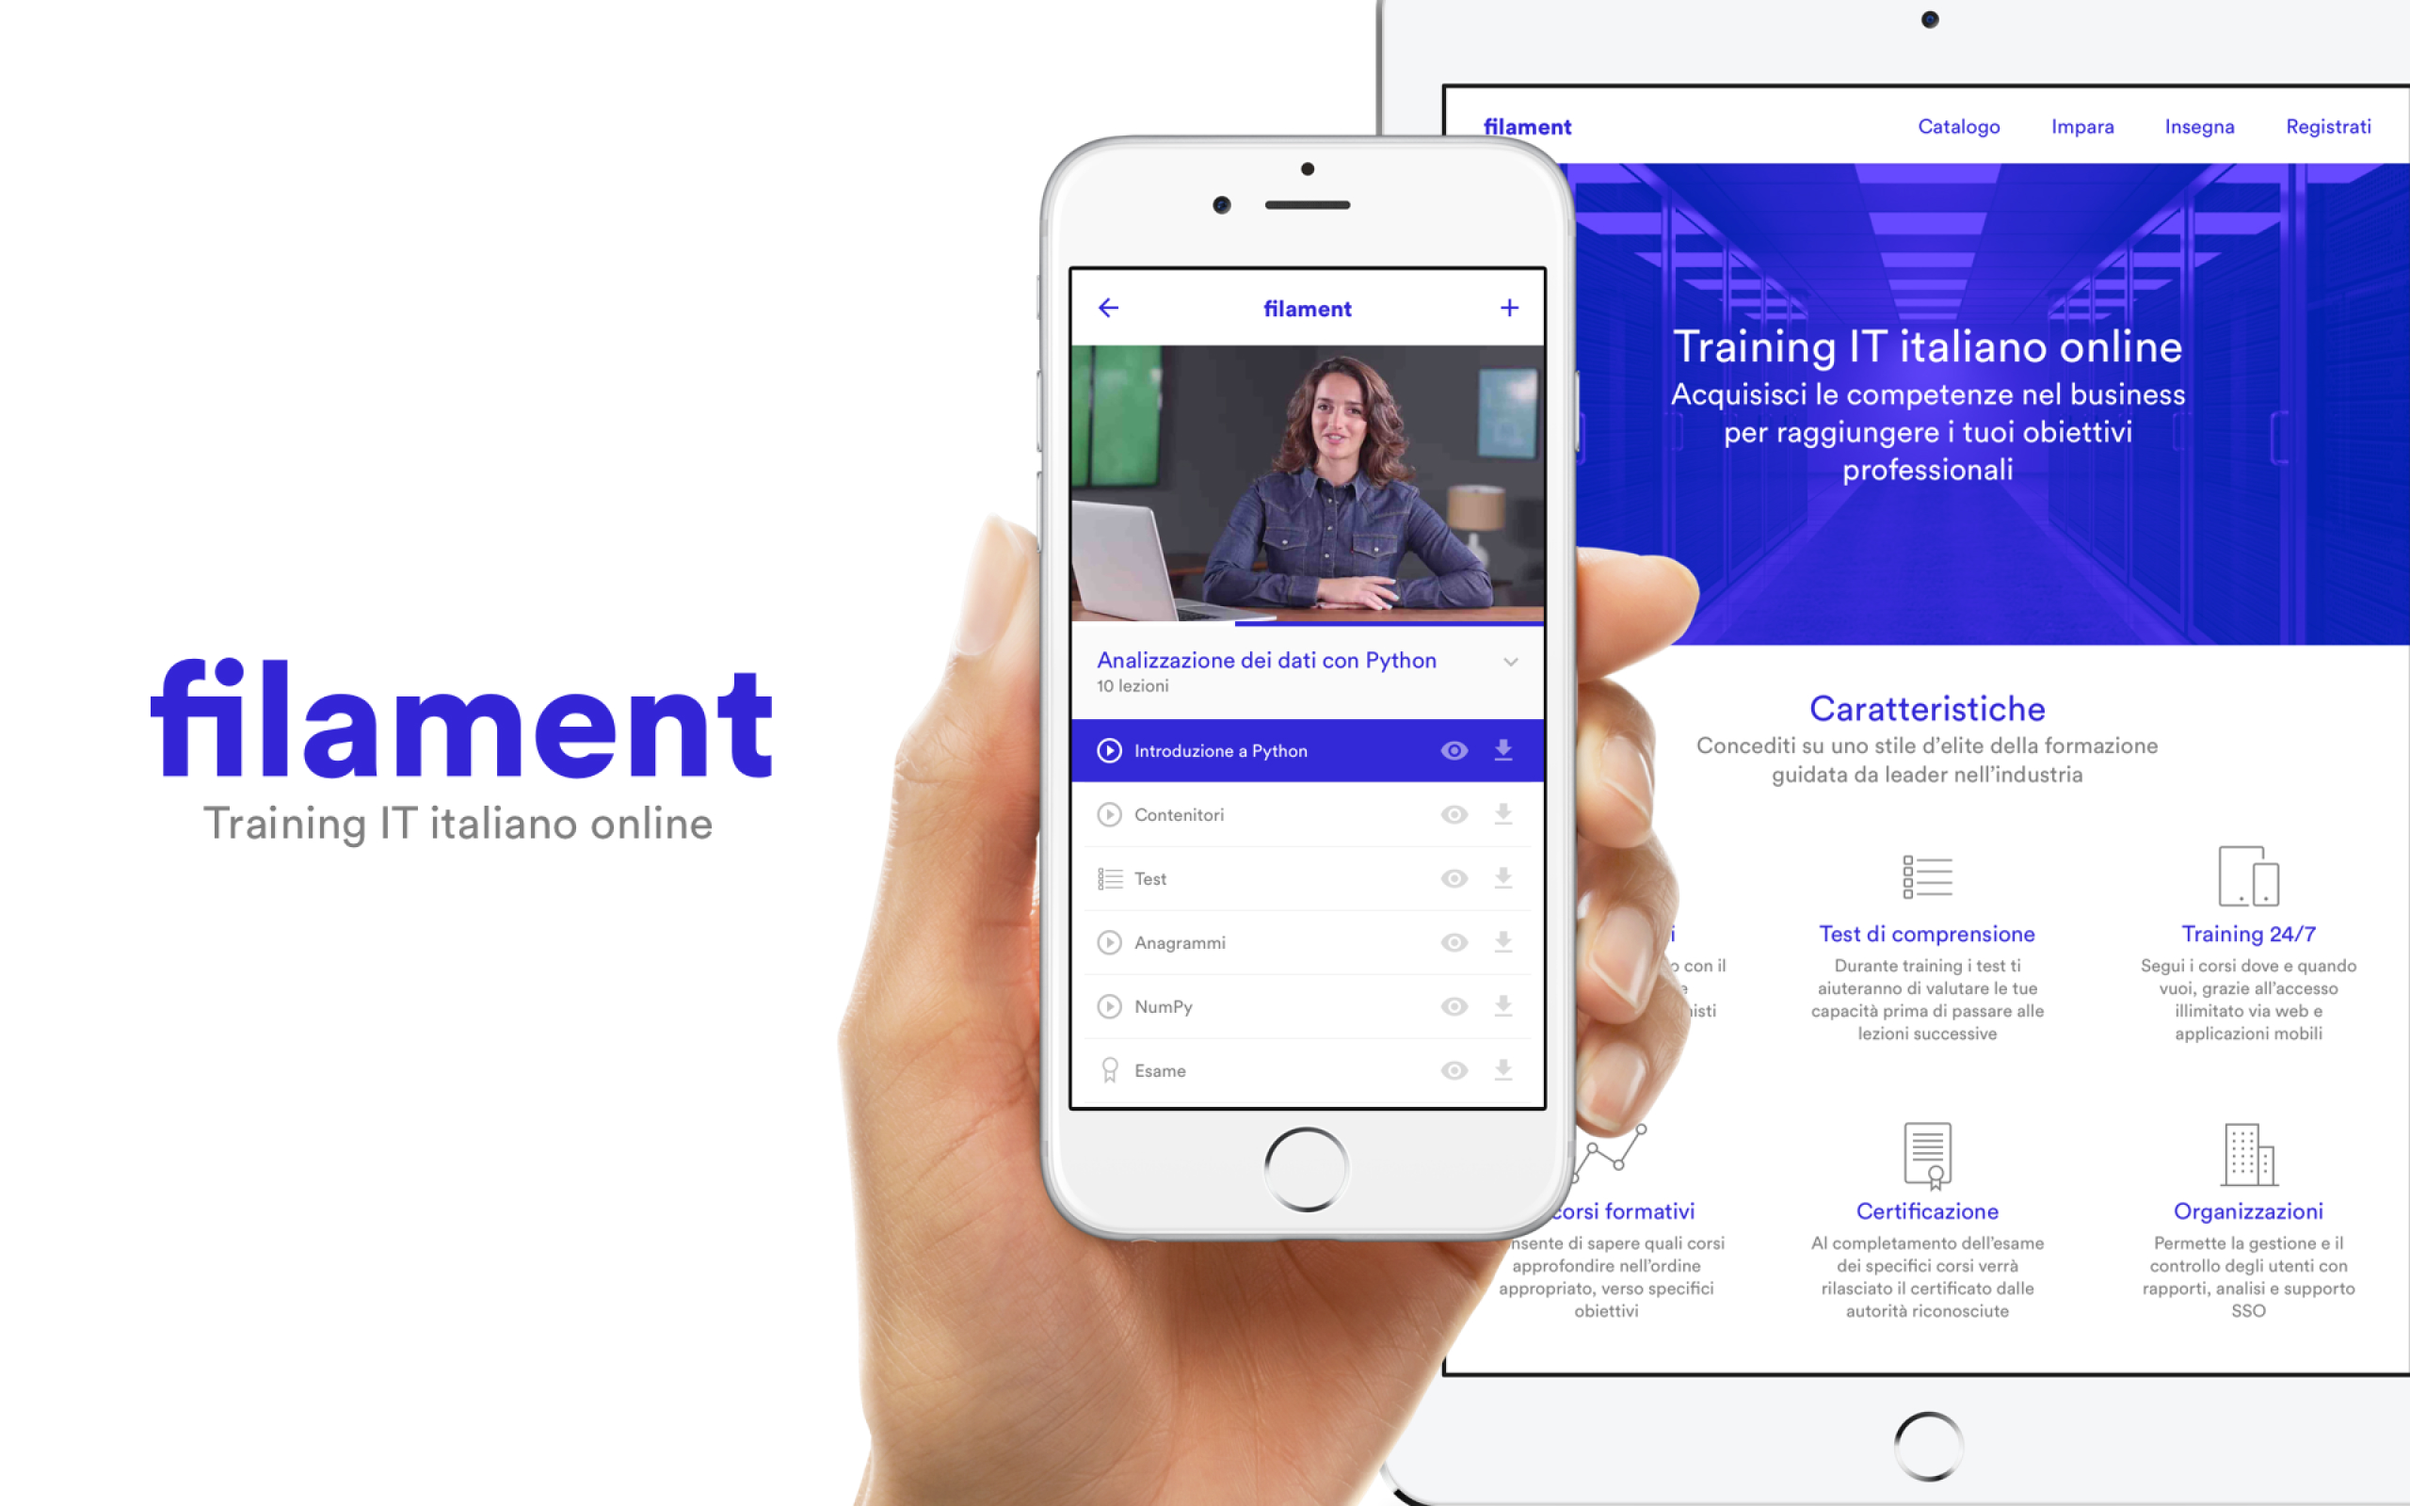
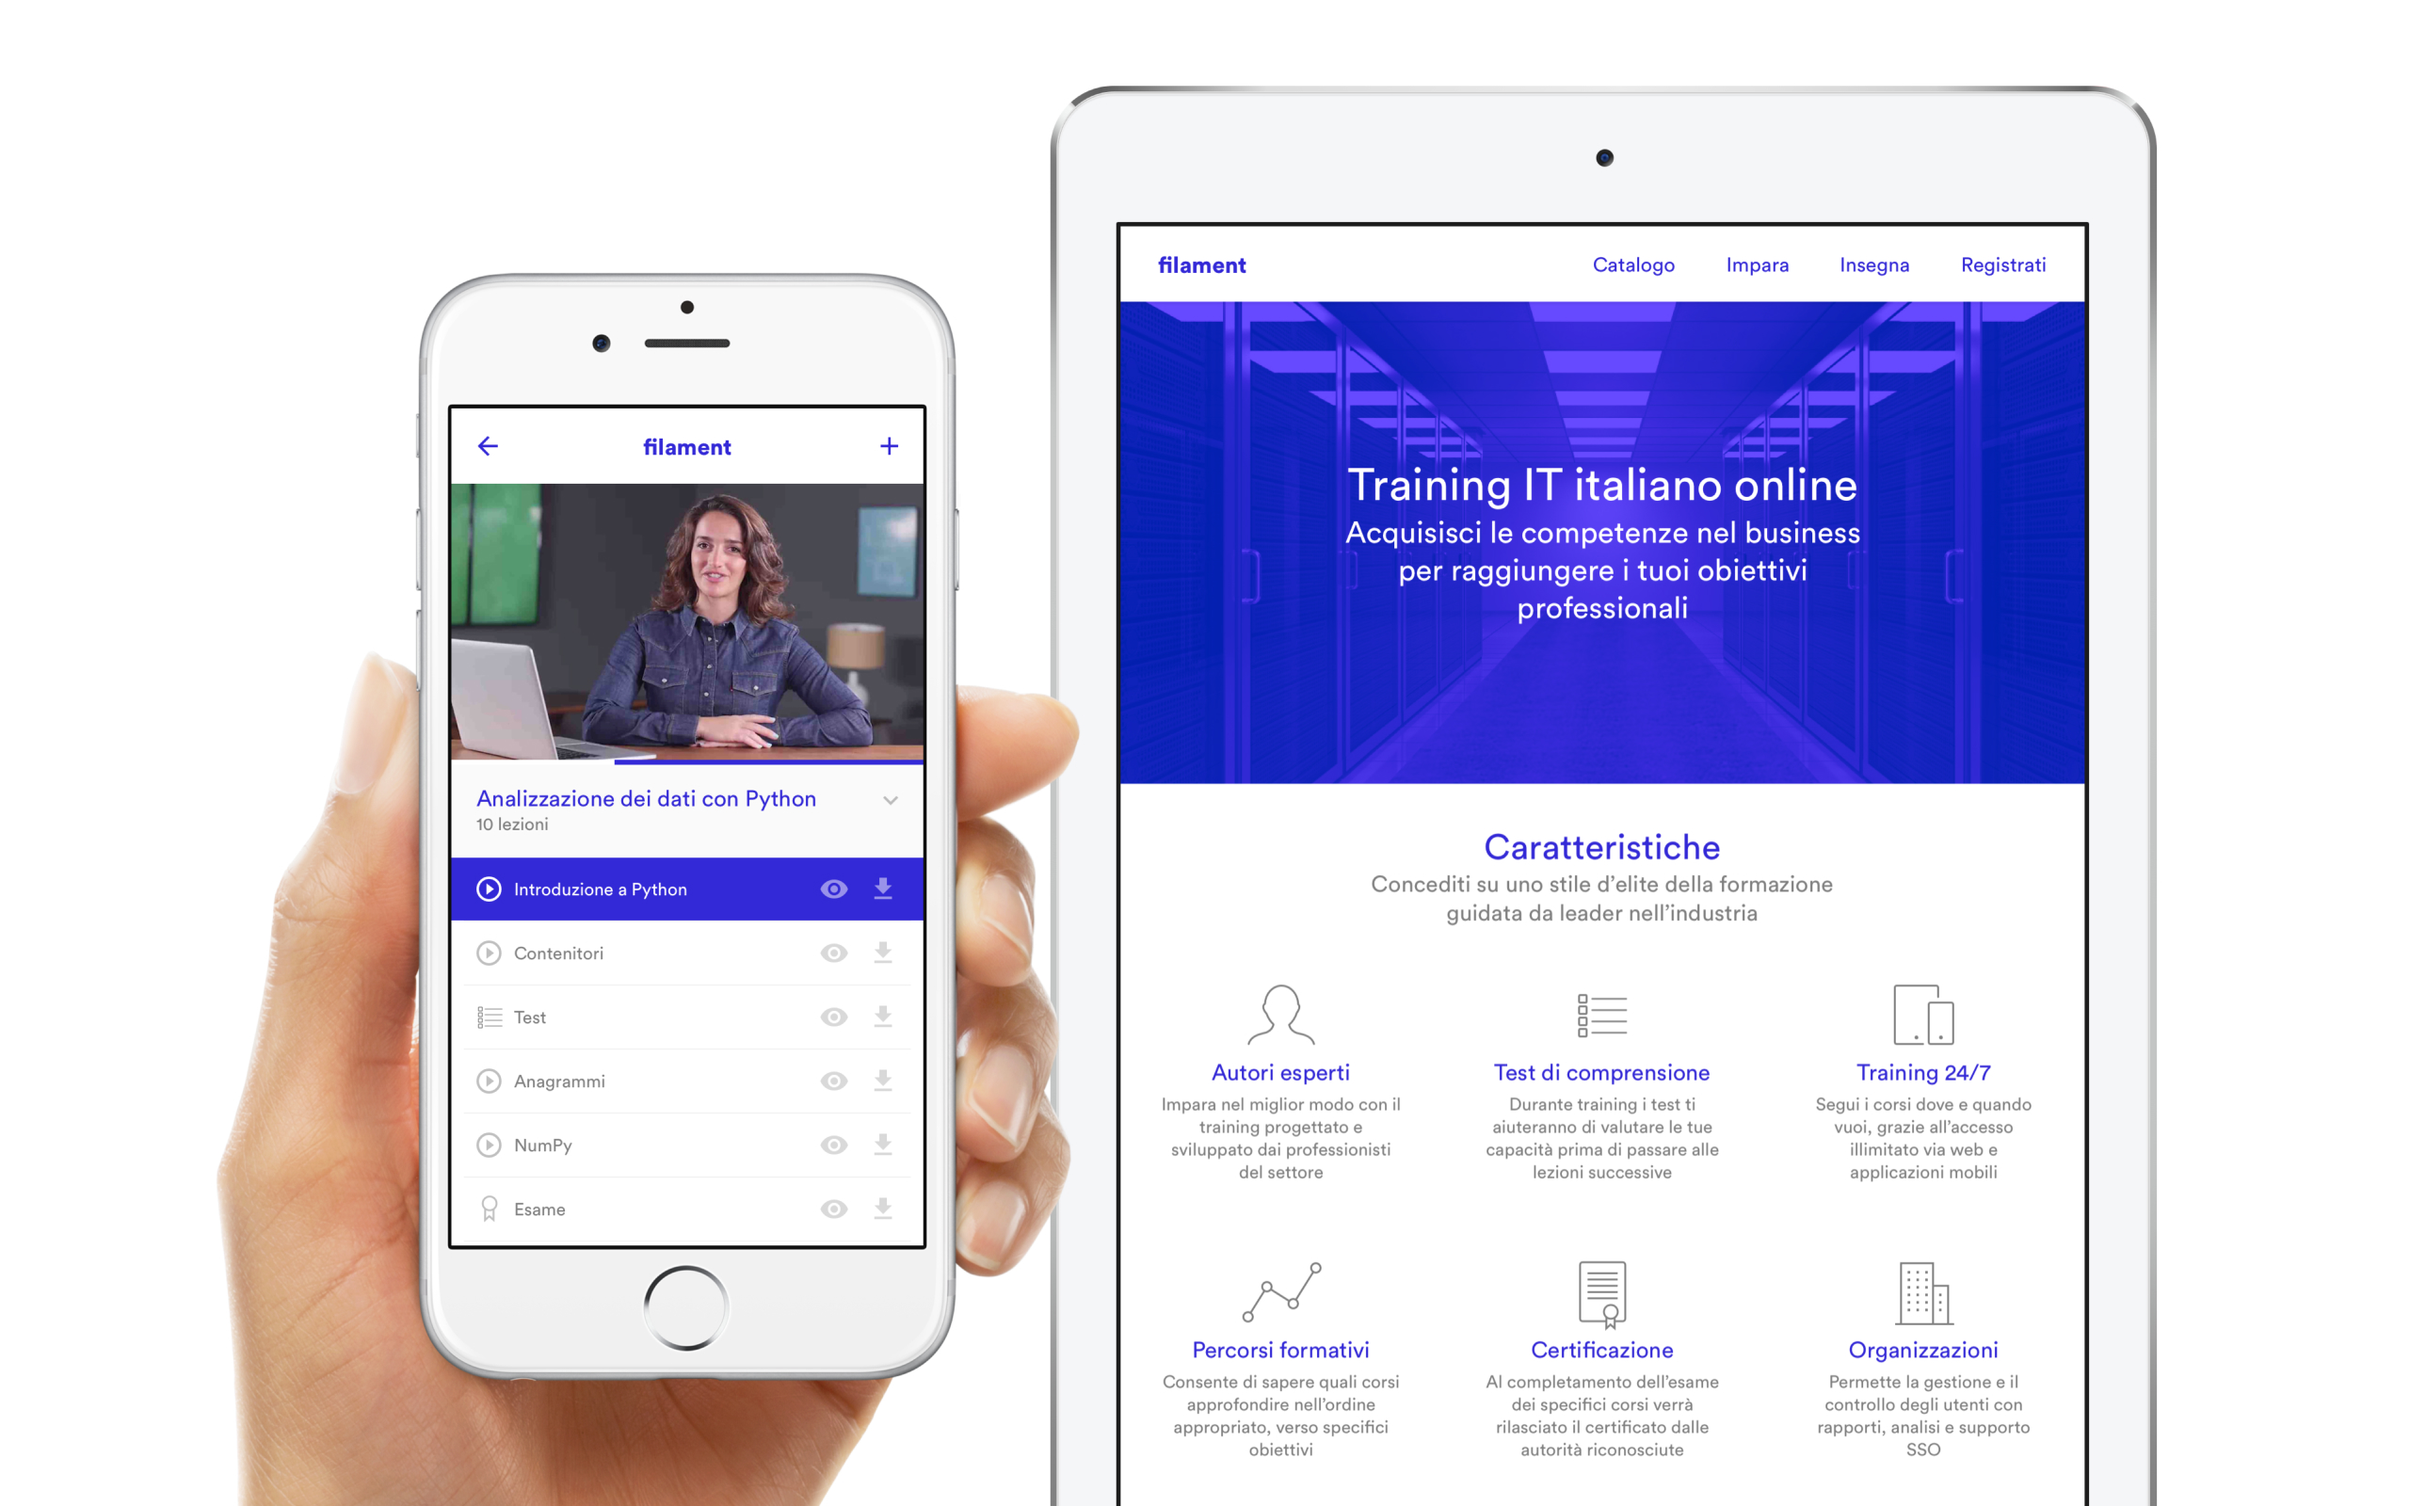
Updated works

diff --git a/src/work/2016/antechamber.md b/src/work/2016/antechamber.md
@@ -1,7 +1,17 @@
 ---
 title: Antechamber
-description: A short video inspired by Person of Interest tv-series.
+description: I crafted the GUI and motion design for a short video titled "Antechamber," inspired by the TV series Person of Interest. This project channels the series' intricate storytelling and innovative surveillance concepts, creating a compelling visual narrative that captivates the audience.
 client:
+css:
+  primary: '#fff'
+  secondary: '#0000FF'
+  tertiary: '#0000FF'
+  neutral1: 'rgba(255, 255, 255, 0.5);'
+  neutral2: 'rgba(255, 255, 255, 0.25);'
+  neutral3: 'rgba(255, 255, 255, 0.12);'
+  neutral4: 'rgba(255, 255, 255, 0.06);'
+  thumbnailHover: 'rgba(255, 255, 255, 0.12)'
+  colorBackground: '#121212'
 roles:
   - User Interface
   - Motion Design
@@ -10,4 +20,9 @@ platform: Video
 finished: true
 permalink: false
 thumbnail: src/static/work/antechamber.jpg
+carousel:
+  - src/static/work/antechamber-1.jpg
+  - src/static/work/antechamber-2.jpg
+  - src/static/work/antechamber-3.jpg
+  - src/static/work/antechamber-4.jpg
 ---

diff --git a/src/work/2019/fca-data-visualizzation.md b/src/work/2019/fca-data-visualizzation.md
@@ -2,6 +2,16 @@
 title: Data Visualization
 description: I took charge of designing the interface and spearheaded the ideation and creation process for the mortgage simulation concept at FCA Bank, a bank specializing in automotive financing and partnerships with prestigious automotive brands.
 client: FCA Bank
+css:
+  primary: '#fff'
+  secondary: '#5B7DFF'
+  tertiary: '#5B7DFF'
+  neutral1: 'rgba(255, 255, 255, 0.5);'
+  neutral2: 'rgba(255, 255, 255, 0.25);'
+  neutral3: 'rgba(255, 255, 255, 0.12);'
+  neutral4: 'rgba(255, 255, 255, 0.06);'
+  thumbnailHover: 'rgba(255, 255, 255, 0.12)'
+  colorBackground: '#383D4A'
 role: Lead Interface Designer
 roles:
   - User Interface
@@ -11,4 +21,9 @@ date: 2019-10-07
 finished: true
 permalink: false
 thumbnail: src/static/work/fca-data-visualizzation.jpg
+carousel:
+  - src/static/work/fca-data-visualizzation-1.jpg
+  - src/static/work/fca-data-visualizzation-2.jpg
+  - src/static/work/fca-data-visualizzation-3.jpg
+  - src/static/work/fca-data-visualizzation-4.jpg
 ---

diff --git a/src/work/2019/ubi-banca-data-visualization.md b/src/work/2019/ubi-banca-data-visualization.md
@@ -2,6 +2,16 @@
 title: Data Visualization
 description: I led the design of a visual language for Data Visualization widgets used in UBI Banca’s Data Intelligence internal product.
 client: UBI Banca
+css:
+  primary: '#fff'
+  secondary: '#C96F25'
+  tertiary: '#C96F25'
+  neutral1: 'rgba(255, 255, 255, 0.5);'
+  neutral2: 'rgba(255, 255, 255, 0.25);'
+  neutral3: 'rgba(255, 255, 255, 0.12);'
+  neutral4: 'rgba(255, 255, 255, 0.06);'
+  thumbnailHover: 'rgba(255, 255, 255, 0.12)'
+  colorBackground: '#252323'
 role: Lead Interface Designer
 roles:
   - User Interface
@@ -11,4 +21,9 @@ date: 2019-10-11
 finished: true
 permalink: false
 thumbnail: src/static/work/ubi-banca-data-visualization.jpg
+carousel:
+  - src/static/work/ubi-banca-data-visualization-1.jpg
+  - src/static/work/ubi-banca-data-visualization-2.jpg
+  - src/static/work/ubi-banca-data-visualization-3.jpg
+  - src/static/work/ubi-banca-data-visualization-4.jpg
 ---

diff --git a/src/work/2016/filament.md b/src/work/2016/filament.md
@@ -1,7 +1,17 @@
 ---
-title: Filament
+title: Training IT Italiano Online
 description: I designed a corporate identity that reflects the strong potential in online training, communicates with potential users as the company offers a vast and updated catalogue of IT courses.
-client: 
+client: Filament
+css:
+  primary: '#212328'
+  secondary: '#3329D6'
+  tertiary: '#3329D6'
+  neutral1: 'rgba(13, 13, 13, 0.5);'
+  neutral2: 'rgba(13, 13, 13, 0.25);'
+  neutral3: 'rgba(13, 13, 13, 0.12);'
+  neutral4: 'rgba(13, 13, 13, 0.06);'
+  thumbnailHover: 'rgba(255, 255, 255, 0.12)'
+  colorBackground: '#fff'
 roles:
   - Product Design
   - User Experience
@@ -12,4 +22,9 @@ date: 2016-02-08
 finished: true
 permalink: false
 thumbnail: src/static/work/filament.jpg
+carousel:
+  - src/static/work/filament-1.jpg
+  - src/static/work/filament-2.jpg
+  - src/static/work/filament-3.jpg
+  - src/static/work/filament-4.jpg
 ---

diff --git a/src/work/2018/tim-mytim.md b/src/work/2018/tim-mytim.md
@@ -2,6 +2,16 @@
 title: MEU TIM
 description: I collaborated with TIM, Italy's largest telecommunications service provider with an annual turnover of over 18 billion euros, to restyle the MyTIM app for Brazil.
 client: TIM
+css:
+  primary: '#fff'
+  secondary: '#D92739'
+  tertiary: '#D92739'
+  neutral1: 'rgba(255, 255, 255, 0.5);'
+  neutral2: 'rgba(255, 255, 255, 0.25);'
+  neutral3: 'rgba(255, 255, 255, 0.12);'
+  neutral4: 'rgba(255, 255, 255, 0.06);'
+  thumbnailHover: 'rgba(255, 255, 255, 0.12)'
+  colorBackground: '#012F49'
 role: Lead Interface Designer
 roles:
   - User Interface
@@ -11,4 +21,9 @@ date: 2018-05-07
 finished: true
 permalink: false
 thumbnail: src/static/work/tim-mytim.jpg
+carousel:
+  - src/static/work/tim-mytim-1.jpg
+  - src/static/work/tim-mytim-2.jpg
+  - src/static/work/tim-mytim-3.jpg
+  - src/static/work/tim-mytim-4.jpg
 ---

diff --git a/src/work/2015/hud.md b/src/work/2015/hud.md
@@ -2,12 +2,27 @@
 title: HUD
 description: I designed an experimental heads-up display for NUKEX compositing components for motion graphics.
 client:
+css:
+  primary: '#fff'
+  secondary: '#F5A623'
+  tertiary: '#F5A623'
+  neutral1: 'rgba(255, 255, 255, 0.5);'
+  neutral2: 'rgba(255, 255, 255, 0.25);'
+  neutral3: 'rgba(255, 255, 255, 0.12);'
+  neutral4: 'rgba(255, 255, 255, 0.06);'
+  thumbnailHover: 'rgba(255, 255, 255, 0.12)'
+  colorBackground: '#000000'
 roles:
   - User Interface
   - Motion Design
-platform: Motion Design
+platform: Video
 date: 2015-07-02
 finished: true
 permalink: false
 thumbnail: src/static/work/hud.jpg
+carousel:
+  - src/static/work/hud-1.jpg
+  - src/static/work/hud-2.jpg
+  - src/static/work/hud-3.jpg
+  - src/static/work/hud-4.jpg
 ---

diff --git a/src/work/2020/valentino-place.md b/src/work/2020/valentino-place.md
@@ -2,6 +2,16 @@
 title: Place
 description: I spearheaded the restyling of Valentino's intranet portal, a vital platform utilized by Valentino employees. Key functionalities encompassed calendar management, company news dissemination, social and magazine streams, and access to online courses.
 client: Valentino
+css:
+  primary: '#fff'
+  secondary: '#989898'
+  tertiary: '#989898'
+  neutral1: 'rgba(255, 255, 255, 0.5);'
+  neutral2: 'rgba(255, 255, 255, 0.25);'
+  neutral3: 'rgba(255, 255, 255, 0.12);'
+  neutral4: 'rgba(255, 255, 255, 0.06);'
+  thumbnailHover: 'rgba(255, 255, 255, 0.12)'
+  colorBackground: '#000000'
 roles:
   - Product Design
   - User Interface

diff --git a/src/work/2020/ied-main-website.md b/src/work/2020/ied-main-website.md
@@ -2,6 +2,16 @@
 title: Main Website
 description: I contributed to the restyling of the main website for IED, a renowned design institute with locations in Italy, Spain, Brazil, and China, serving over 100,000 students. The updated site is scheduled for publication in 2021.
 client: IED
+css:
+  primary: '#212328'
+  secondary: '#D1121E'
+  tertiary: '#D1121E'
+  neutral1: 'rgba(13, 13, 13, 0.5);'
+  neutral2: 'rgba(13, 13, 13, 0.25);'
+  neutral3: 'rgba(13, 13, 13, 0.12);'
+  neutral4: 'rgba(13, 13, 13, 0.06);'
+  thumbnailHover: 'rgba(255, 255, 255, 0.12)'
+  colorBackground: '#DDDDDD'
 roles:
   - Product Design
   - User Interface

diff --git a/src/work/2021/kraken.md b/src/work/2021/kraken.md
@@ -2,6 +2,16 @@
 title: Crypto & Bitcoin app
 description: I led the re-design of the main page of the iOS Kraken app, a leader in Europe's Bitcoin trading platform.
 client: Kraken
+css:
+  primary: '#fff'
+  secondary: '#BFA0FF'
+  tertiary: '#BFA0FF'
+  neutral1: 'rgba(255, 255, 255, 0.5);'
+  neutral2: 'rgba(255, 255, 255, 0.25);'
+  neutral3: 'rgba(255, 255, 255, 0.12);'
+  neutral4: 'rgba(255, 255, 255, 0.06);'
+  thumbnailHover: 'rgba(255, 255, 255, 0.12)'
+  colorBackground: '#252A36'
 role: Lead Designer
 roles:
   - Product Design

diff --git a/src/work/2016/poly-characters.md b/src/work/2016/poly-characters.md
@@ -9,4 +9,9 @@ date: 2016-08-05
 finished: true
 permalink: false
 thumbnail: src/static/work/poly-characters.jpg
+carousel:
+  - src/static/work/poly-characters-1.jpg
+  - src/static/work/poly-characters-2.jpg
+  - src/static/work/poly-characters-3.jpg
+  - src/static/work/poly-characters-4.jpg
 ---

diff --git a/src/work/2017/land-ho-coworking.md b/src/work/2017/land-ho-coworking.md
@@ -13,4 +13,5 @@ date: 2017-01-23
 finished: true
 permalink: false
 thumbnail: src/static/work/land-ho-coworking.jpg
+eleventyExcludeFromCollections: true
 ---

diff --git a/src/work/2016/3d-rainbow.md b/src/work/2016/3d-rainbow.md
@@ -9,4 +9,5 @@ date: 2016-01-26
 finished: true
 permalink: false
 thumbnail: src/static/work/3d-rainbow.jpg
+eleventyExcludeFromCollections: true
 ---
